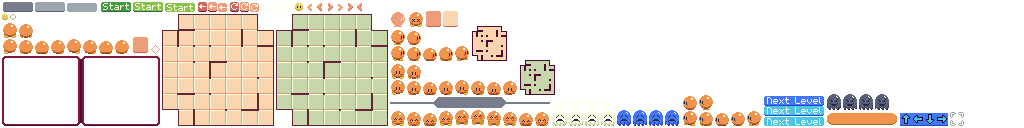
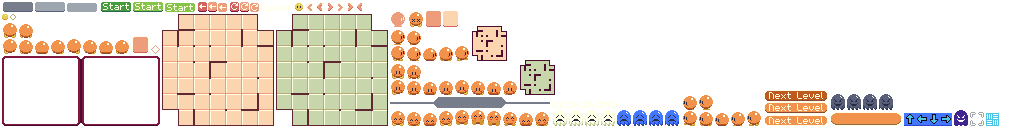
new play backgrounds, final level fixes

Changed region(s): [[0.7188, 0.6875, 0.875, 1.0], [0.875, 0.875, 1.0, 1.0]]

diff --git a/core/src/main/java/com/distraction/glj9/utils/HUD.java b/core/src/main/java/com/distraction/glj9/utils/HUD.java
@@ -11,12 +11,14 @@ import com.distraction.glj9.Constants;
 import com.distraction.glj9.Context;
 import com.distraction.glj9.tile.Button;
 import com.distraction.glj9.tile.Entity;
+import com.distraction.glj9.tile.LevelData;
 import com.distraction.glj9.tile.SpeedButton;
 import com.distraction.glj9.tile.TileMap;
 
 public class HUD extends Entity {
 
     private static final Interpolation TITLE_POS = new FlyByInterpolation();
+    private static final Interpolation NEXT_POS = Interpolation.swingOut;
 
     // hack because font integer positions and stuff
     private final TextureRegion levelText;
@@ -47,6 +49,8 @@ public class HUD extends Entity {
     private float levelTextTime;
     private float levelTextx;
 
+    private float nextTime;
+
     public HUD(
         Context context,
         TileMap tileMap,
@@ -69,7 +73,7 @@ public class HUD extends Entity {
         superTitleText = new GlyphLayout(font, "Super", Constants.WHITE, 0, Align.center, false);
         superText = new GlyphLayout(font, "0", Constants.PINK, 0, Align.center, false);
 
-        TextureRegion[][] nextLevel = context.getImage("nextlevelbuttons").split(60, 10);
+        TextureRegion[][] nextLevel = context.getImage("nextlevelbuttons").split(64, 12);
         nextLevelButton = new Button(
             context,
             new TextureRegion[]{nextLevel[0][0], nextLevel[1][0], nextLevel[2][0]},
@@ -83,7 +87,10 @@ public class HUD extends Entity {
         redoButton = new Button(
             context,
             context.getImage("redobuttons").split(10, 10)[0],
-            onRedo
+            () -> {
+                nextTime = 0;
+                onRedo.callback();
+            }
         );
         startButton = new Button(
             context,
@@ -125,7 +132,7 @@ public class HUD extends Entity {
     }
 
     private boolean nextLevelVisible() {
-        return tileMap.player.isWin();
+        return tileMap.player.isWin() && tileMap.level < LevelData.levels.length;
     }
 
     public void onMouseMove(float mx, float my) {
@@ -157,11 +164,25 @@ public class HUD extends Entity {
         startButton.pressed = tileMap.isStarted() || startDown;
 
         levelTextTime += dt;
-        levelTextx = Constants.WIDTH * 0.5f * TITLE_POS.apply(levelTextTime - 0.4f);
+        levelTextx = (Constants.WIDTH - w) * 0.5f * TITLE_POS.apply(levelTextTime - 0.4f);
+
+        if (nextLevelVisible()) {
+            nextTime += dt;
+            if (nextTime > 0.5f) nextTime = 0.5f;
+            nextLevelButton.y = -10 + 20 * NEXT_POS.apply(nextTime * 2);
+        }
     }
 
     @Override
     public void render(SpriteBatch sb) {
+        Utils.drawCentered(sb, levelTextBg, levelTextx, Constants.HEIGHT / 2f - 3);
+        sb.draw(levelText, levelTextx - totalTextWidth / 2f, Constants.HEIGHT / 2f - 7);
+        if (levelNumText.length > 1) {
+            sb.draw(levelNumText[0], levelTextx + 11 + 0.5f, Constants.HEIGHT / 2f - 6);
+            sb.draw(levelNumText[1], levelTextx + 17 + 0.5f, Constants.HEIGHT / 2f - 6);
+        } else {
+            sb.draw(levelNumText[0], levelTextx + 15 + 0.5f, Constants.HEIGHT / 2f - 6);
+        }
         sb.setColor(Constants.DIM_BG);
         sb.draw(pixel, Constants.WIDTH - w, 0, w, Constants.HEIGHT);
         for (int i = 0; i < Constants.HUD_BORDER_COLORS.length; i++) {
@@ -178,16 +199,6 @@ public class HUD extends Entity {
         redoButton.render(sb);
         startButton.render(sb);
         speedButton.render(sb);
-
-        Utils.drawCentered(sb, levelTextBg, levelTextx, Constants.HEIGHT / 2f - 3);
-
-        sb.draw(levelText, levelTextx - totalTextWidth / 2f, Constants.HEIGHT / 2f - 7);
-        if (levelNumText.length > 1) {
-            sb.draw(levelNumText[0], levelTextx + 11 + 0.5f, Constants.HEIGHT / 2f - 6);
-            sb.draw(levelNumText[1], levelTextx + 17 + 0.5f, Constants.HEIGHT / 2f - 6);
-        } else {
-            sb.draw(levelNumText[0], levelTextx + 15 + 0.5f, Constants.HEIGHT / 2f - 6);
-        }
     }
 
 }

diff --git a/core/src/main/java/com/distraction/glj9/screens/PlayScreen.java b/core/src/main/java/com/distraction/glj9/screens/PlayScreen.java
@@ -21,6 +21,7 @@ public class PlayScreen extends Screen {
 
     private final TileMap tileMap;
     private final Background bg;
+    private final Color bgColor;
     private final HUD hud;
 
     private boolean starting;
@@ -37,7 +38,11 @@ public class PlayScreen extends Screen {
 
         tileMap = new TileMap(context, level);
 
-        bg = new Background(context, context.getImage("bg3"), 5, -5, 24, 24);
+        String s = level <= 12 ? "bg3" : level <= 24 ? "bg4" : "bg5";
+        float dx = level <= 24 ? 5 : -5;
+        float dy = level <= 12 ? -5 : 5;
+        bg = new Background(context, context.getImage(s), dx, dy, 24, 24);
+        bgColor = level <= 12 ? Constants.LEVEL_BG : level <= 24 ? Constants.LEVEL_BG_2 : Constants.LEVEL_BG_3;
         hud = new HUD(
             context,
             tileMap,
@@ -190,7 +195,7 @@ public class PlayScreen extends Screen {
         sb.begin();
 
         sb.setProjectionMatrix(uiCam.combined);
-        sb.setColor(Constants.LEVEL_BG);
+        sb.setColor(bgColor);
         sb.draw(pixel, 0, 0, Constants.WIDTH, Constants.HEIGHT);
         sb.setColor(Color.WHITE);
         bg.render(sb);

diff --git a/core/src/main/java/com/distraction/glj9/tile/LevelData.java b/core/src/main/java/com/distraction/glj9/tile/LevelData.java
@@ -573,7 +573,7 @@ public class LevelData {
                 new EntityData(EntityData.EntityType.PLAYER, 0, 3),
                 new EntityData(EntityData.EntityType.GHOST, 3, 3, Direction.UP)
             },
-            3
+            1
         ),
         new LevelData(
             4,
@@ -594,7 +594,7 @@ public class LevelData {
                 new EntityData(EntityData.EntityType.GHOST, 2, 1, Direction.DOWN),
                 new EntityData(EntityData.EntityType.GHOST, 3, 1, Direction.DOWN),
             },
-            3
+            1
         ),
         new LevelData(
             4,

diff --git a/core/src/main/java/com/distraction/glj9/Constants.java b/core/src/main/java/com/distraction/glj9/Constants.java
@@ -58,6 +58,8 @@ public class Constants {
     public static final Color LEVEL_SELECT_TOP = COLORS[3];
     public static final Color DIM_BG = Color.valueOf("00000080");
     public static final Color LEVEL_BG = COLORS[21];
+    public static final Color LEVEL_BG_2 = COLORS[30];
+    public static final Color LEVEL_BG_3 = COLORS[1];
 
     public static final Color PREVIEW_PELLET = COLORS[8];
     public static final Color PREVIEW_PLAYER = COLORS[18];
